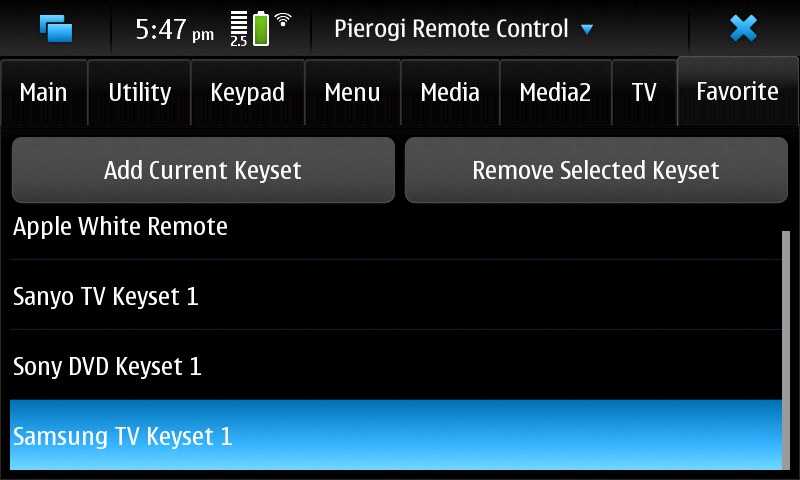
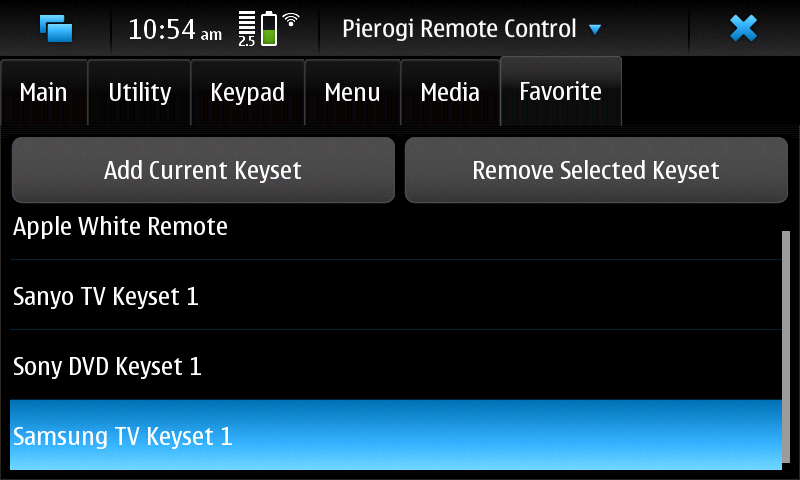
Update to documentation/website
I forgot to update the documentation in the previous commit.  This updates
the website as well, with some new screenshots.

Changed region(s): [[0.375, 0.0312, 1.0, 0.25], [0.1562, 0.0, 0.375, 0.0938], [0.9688, 0.9688, 1.0, 1.0]]

diff --git a/doc/documentation.html b/doc/documentation.html
@@ -57,13 +57,15 @@ If you have a particular keyset you use often, it can be stored in the
 "favorites" tab for quick access.
 </p>
 
-<h3>Main Tab</h3>
+<h3>Main Window</h3>
+
+<h4>Main Tab</h4>
 
 <p>The Main tab contains just the power, volume, and channel buttons.  It is
 intended to be a quick way to get to the most important, commonly used
 controls.  The name of the current keyset is also provided in this tab.</p>
 
-<h3>Utility Tab</h3>
+<h4>Utility Tab</h4>
 
 <p>The Utility tab contains a selection of commonly useful controls, such as
 "Mute", "Sleep", "Input", "Closed Captions / Subtitles", and the color buttons.
@@ -71,7 +73,7 @@ This tab is intended to be a quick way to reach the most frequently used
 buttons; as such, the selection may be updated in future versions of Pierogi.
 </p>
 
-<h3>Keypad Tab</h3>
+<h4>Keypad Tab</h4>
 
 <p>This tab provides a numeric keypad and a handful of associated commands,
 intended mainly for use with televisions.  The "Prev Channel" button should
@@ -83,7 +85,7 @@ Double Digit" button is used on very old televisions that normally expect
 channels to be represented by just a single digit; pressing this should
 allow you to enter a second digit.</p>
 
-<h3>Menu Tab</h3>
+<h4>Menu Tab</h4>
 
 <p>This tab contains buttons used to enter and exit a menu, navigate within
 a menu, and select menu entries.  The "Menu" button is meant to enter the
@@ -91,26 +93,14 @@ main system menu of a given device; "Guide" is a content-related menu available
 on many modern devices; and "Disc Menu" is used to access the menu interface
 provided with DVD and Blu-Ray media.</p>
 
-<h3>Media Tab</h3>
+<h4>Media Tab</h4>
 
 <p>Many of the most important playback commands are represented on this tab.
 "Play", "Pause", and "Stop" are the most common ones, along with "Reverse"
 (often called rewind) and "Fast Forward".  A variety of other less common
 navigation controls are included, along with the "Eject" command.</p>
 
-<h3>Media2 Tab</h3>
-
-<p>This is another page of media buttons, containing a mix of commands useful
-for DVD players, VCRs, audio devices, and possibly other devices.  The content
-of this page may change in the future.</p>
-
-<h3>TV Tab</h3>
-
-<p>This page contains several more TV-oriented buttons, including controls for
-picture-in-picture, teletext, and some graphics and audio controls.  The
-content of this page is subject to change.</p>
-
-<h3>Favorite Tab</h3>
+<h4>Favorite Tab</h4>
 
 <p>As there are numerous keysets available in Pierogi, a "Favorite" tab has
 been implemented.  To add a favorite keyset to the tab, first select that
@@ -132,6 +122,37 @@ device you are trying to control; all keysets not associated with the chosen
 make or type will be hidden.  To use a keyset, simply select it from the list,
 and then close the window (by pressing the return arrow at the top right of
 the screen).</p>
+
+<h3>Secondary Buttons Window</h3>
+
+<h4>TV Tab</h4>
+
+<p>This page contains several more TV-oriented buttons, including controls for
+picture-in-picture, teletext, and some graphics and audio controls.  The
+content of this page is subject to change.</p>
+
+<h4>Media2 Tab</h4>
+
+<p>This is another page of media buttons, containing a mix of commands useful
+for DVD players, VCRs, audio devices, and possibly other devices.  The content
+of this page may change in the future.</p>
+
+<h4>Input Tab</h4>
+
+<p>
+Many devices have multiple sources for their data, whether it be television
+signals piped in over the air or through a cable, or audio from a variety of
+stereo components.  It is unlikely that Pierogi will ever be able to list all
+of the various possible input buttons, but this tab contains a few of them.
+</p>
+
+<h4>Adjust Tab</h4>
+
+<p>
+A handful of the various audio and video adjustment buttons are placed on
+this tab.  Actual volume controls will likely remain on the main window,
+however.
+</p>
 
 <h2>Design Rationale</h2>
 

diff --git a/www/index.html b/www/index.html
@@ -75,7 +75,9 @@ If you have a particular keyset you use often, it can be stored in the
 "favorites" tab for quick access.
 </p>
 
-<h3>Main Tab</h3>
+<h3>Main Window</h3>
+
+<h4>Main Tab</h4>
 
 <img src="MainTab.png">
 
@@ -83,7 +85,7 @@ If you have a particular keyset you use often, it can be stored in the
 intended to be a quick way to get to the most important, commonly used
 controls.  The name of the current keyset is also provided in this tab.</p>
 
-<h3>Utility Tab</h3>
+<h4>Utility Tab</h4>
 
 <img src="UtilityTab.png">
 
@@ -93,7 +95,7 @@ This tab is intended to be a quick way to reach the most frequently used
 buttons; as such, the selection may be updated in future versions of Pierogi.
 </p>
 
-<h3>Keypad Tab</h3>
+<h4>Keypad Tab</h4>
 
 <img src="KeypadTab.png">
 
@@ -107,7 +109,7 @@ Double Digit" button is used on very old televisions that normally expect
 channels to be represented by just a single digit; pressing this should
 allow you to enter a second digit.</p>
 
-<h3>Menu Tab</h3>
+<h4>Menu Tab</h4>
 
 <img src="MenuTab.png">
 
@@ -117,7 +119,7 @@ main system menu of a given device; "Guide" is a content-related menu available
 on many modern devices; and "Disc Menu" is used to access the menu interface
 provided with DVD and Blu-Ray media.</p>
 
-<h3>Media Tab</h3>
+<h4>Media Tab</h4>
 
 <img src="MediaTab.png">
 
@@ -126,23 +128,7 @@ provided with DVD and Blu-Ray media.</p>
 (often called rewind) and "Fast Forward".  A variety of other less common
 navigation controls are included, along with the "Eject" command.</p>
 
-<h3>Media2 Tab</h3>
-
-<img src="Media2Tab.png">
-
-<p>This is another page of media buttons, containing a mix of commands useful
-for DVD players, VCRs, audio devices, and possibly other devices.  The content
-of this page may change in the future.</p>
-
-<h3>TV Tab</h3>
-
-<img src="TVTab.png">
-
-<p>This page contains several more TV-oriented buttons, including controls for
-picture-in-picture, teletext, and some graphics and audio controls.  The
-content of this page is subject to change.</p>
-
-<h3>Favorite Tab</h3>
+<h4>Favorite Tab</h4>
 
 <img src="FavoriteTab.png">
 
@@ -168,6 +154,45 @@ the product you are trying to control; all keysets not associated with
 the chosen values will be hidden.  To use a keyset,
 simply select it from the list, and close the window (by pressing the
 return arrow at the top right of the screen).</p>
+
+<h3>Secondary Buttons Window</h3>
+
+<h4>TV Tab</h4>
+
+<img src="TVTab.png">
+
+<p>This page contains several more TV-oriented buttons, including controls for
+picture-in-picture, teletext, and some graphics and audio controls.  The
+content of this page is subject to change.</p>
+
+<h4>Media2 Tab</h4>
+
+<img src="Media2Tab.png">
+
+<p>This is another page of media buttons, containing a mix of commands useful
+for DVD players, VCRs, audio devices, and possibly other devices.  The content
+of this page may change in the future.</p>
+
+<h4>Input Tab</h4>
+
+<img src="InputTab.png">
+
+<p>
+Many devices have multiple sources for their data, whether it be television
+signals piped in over the air or through a cable, or audio from a variety of
+stereo components.  It is unlikely that Pierogi will ever be able to list all
+of the various possible input buttons, but this tab contains a few of them.
+</p>
+
+<h4>Adjust Tab</h4>
+
+<img src="AdjustTab.png">
+
+<p>
+A handful of the various audio and video adjustment buttons are placed on
+this tab.  Actual volume controls will likely remain on the main window,
+however.
+</p>
 
 <h2>Design Rationale</h2>
 
